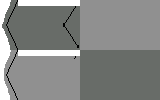
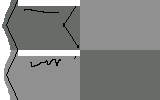
still working on bullet stuff, updated character sprite

Changed region(s): [[0.125, 0.09, 0.375, 0.15], [0.25, 0.57, 0.375, 0.66], [0.1875, 0.6, 0.25, 0.69]]

diff --git a/src/index.js b/src/index.js
@@ -2,9 +2,10 @@ import Phaser from 'phaser';
 import checkerboard from './assets/checkerboard.png';
 import verticalCheckerboard from './assets/vertcheckerboard.png';
 import guy from './assets/guy.png';
+import pointImage from './assets/point.png';
 
 let config = {
-  type: Phaser.CANVAS,
+  type: Phaser.WEBGL,
   parent: 'phaser-example',
   width: 800,
   height: 600,
@@ -20,7 +21,9 @@ let config = {
 let camera;
 let cursors;
 let frames;
-let character;
+let characterLegs;
+let characterTorso;
+let point = undefined;
 let speed = 3;
 let startZ;
 let text;
@@ -41,6 +44,7 @@ let game = new Phaser.Game(config);
 
 const CURVE = [...Array(DEPTH).keys()].map(n => Math.sqrt(DEPTH**2 - n**2));
 const curveFn = (i) => (-DEPTH + CURVE[i]) * 10;
+// const highPrecCurveFn = n => (-DEPTH + Math.sqrt((DEPTH)**2 - n**2)) * 10;
 
 function buildFrames(camera) {
   const floor = camera.createRect({ x: 1, y: 1, z: DEPTH }, FRAME_PERIOD, 'strip', 0);
@@ -87,6 +91,7 @@ function preload () {
   this.load.spritesheet('strip', checkerboard, { frameWidth: 160, frameHeight: 50 });
   this.load.spritesheet('vertstrip', verticalCheckerboard, { frameWidth: 64, frameHeight: 160 })
   this.load.spritesheet('character', guy, { frameHeight: 56, frameWidth: 32 });
+  this.load.image('point', pointImage);
 }
 
 function create () {
@@ -96,20 +101,22 @@ function create () {
   frames = buildFrames(camera);
   startZ = frames[0].floor.z;
 
-  character = camera.create(0, -48, 600, 'character', 0);
+  characterLegs = camera.create(0, -48, 600, 'character', 0);
+  characterTorso = camera.create(0, -48, 600, 'character', 4);
+
   this.anims.create({
     key: 'walk',
-    frames: this.anims.generateFrameNumbers('character', { frames: [0, 1, 0, 2] }),
+    frames: this.anims.generateFrameNumbers('character', { frames: [1, 3, 2, 3] }),
     frameRate: 3,
     repeat: -1,
   })
   this.anims.create({
     key: 'run',
-    frames: this.anims.generateFrameNumbers('character', { frames: [0, 1, 0, 2] }),
+    frames: this.anims.generateFrameNumbers('character', { frames: [1, 3, 2, 3] }),
     frameRate: 6,
     repeat: -1,
   })
-  character.gameObject.play('walk');
+  characterLegs.gameObject.play('walk');
   cursors = this.input.keyboard.addKeys({
     'up': Phaser.Input.Keyboard.KeyCodes.W,
     'down': Phaser.Input.Keyboard.KeyCodes.S,
@@ -129,6 +136,75 @@ function create () {
       dash.wait = 100;
       dash.dir = 'right';
     }
+  });
+  this.input.on('pointerdown', (event) => {
+    console.log(event.x, event.y);
+    let ray = camera.getPickRay(event.x, event.y);
+    console.log(ray);
+    if (point !== undefined) {
+      point.x = ray.origin.x;
+      point.y = ray.origin.y;
+      point.z = ray.origin.z;
+    } else {
+      point = camera.create(ray.origin.x, ray.origin.y, ray.origin.z, 'point', 0);
+    }
+    point.originalRay = ray;
+    const times = {
+      posX: 9999,
+      negX: 9999,
+      posY: 9999,
+      negY: 9999,
+    }
+
+    if (ray.direction.x > 0.1) {
+      // rwall calc
+      times.posX = (RIGHT_BOUND - ray.origin.x) / ray.direction.x;
+    }
+    if (ray.direction.x < -0.1) {
+      // lwall calc
+      times.negX = (LEFT_BOUND - ray.origin.x) / ray.direction.x;
+    }
+    if (ray.direction.y < 0.4) {
+      // floor calc ray march until out of bounds to get approximation
+      let hitFrame = 0;
+      let found = false;
+      let y;
+      while (!found) {
+        let frame = frames[hitFrame].floor;
+        let frameTime = (frame.z - ray.origin.z) / ray.direction.z;
+        y = ray.origin.y - ray.direction.y * frameTime;
+        if (y > frame.y) {
+          found = true;
+          times.posY = frameTime;
+        } else {
+          hitFrame += 1;
+          if (hitFrame === DEPTH) {
+            found = true;
+          }
+        }
+      }
+    }
+    if (ray.direction.y > 0.3) {
+      // ceiling calc
+      let hitFrame = 0;
+      let found = false;
+      let y;
+      while (!found) {
+        let frame = frames[hitFrame].ceiling;
+        let frameTime = (frame.z - ray.origin.z) / ray.direction.z;
+        y = ray.origin.y - ray.direction.y * frameTime;
+        if (y > frame.y) {
+          found = true;
+          times.negY = frameTime;
+        } else {
+          hitFrame += 1;
+          if (hitFrame === DEPTH) {
+            found = true;
+          }
+        }
+      }
+    }
+    console.log(times);
   });
 
   text = this.add.text(10, 10, '', { font: '16px Courier', fill: '#00ff00' });
@@ -178,18 +254,28 @@ function update () {
   if (camera.x >= RIGHT_BOUND) camera.x = RIGHT_BOUND;
   dash.wait = (dash.wait === 0) ? 0 : dash.wait - 1;
 
-  character.x = camera.x;
+  characterLegs.x = camera.x;
+  characterTorso.x = camera.x;
 
   speed = 3;
   if (cursors.up.isDown) {
     speed = 5;
-    character.gameObject.play('run', true);
+    characterLegs.gameObject.play('run', true);
   } else {
-    character.gameObject.play('walk', true);
+    characterLegs.gameObject.play('walk', true);
     if (cursors.down.isDown) {
       speed = 1;
     }
   }
+  if (point !== undefined) {
+    point.x = point.x + (point.originalRay.direction.x * 10);
+    point.y = point.y - (point.originalRay.direction.y * 10);
+    point.z = point.z + (point.originalRay.direction.z * 10);
+  }
+  const origRay = (point && point.originalRay) ? point.originalRay : {
+    direction: { x: 'n/a', y: 'n/a', z: 'n/a' },
+  };
+  const pt = (point) ? point : { x: 'n/a', y: 'n/a', z: 'n/a' };
   camera.update();
   text.setText([
     'camera.x: ' + camera.x,
@@ -197,5 +283,11 @@ function update () {
     'camera.z: ' + camera.z,
     'dash.dir: ' + dash.dir,
     'dash.wait: ' + dash.wait,
+    'point.originalRay.direction.x: ' + origRay.direction.x,
+    'point.originalRay.direction.y: ' + origRay.direction.y,
+    'point.originalRay.direction.z: ' + origRay.direction.z,
+    'point.x: ' + pt.x,
+    'point.y: ' + pt.y,
+    'point.z: ' + pt.z,
   ]);
 }
